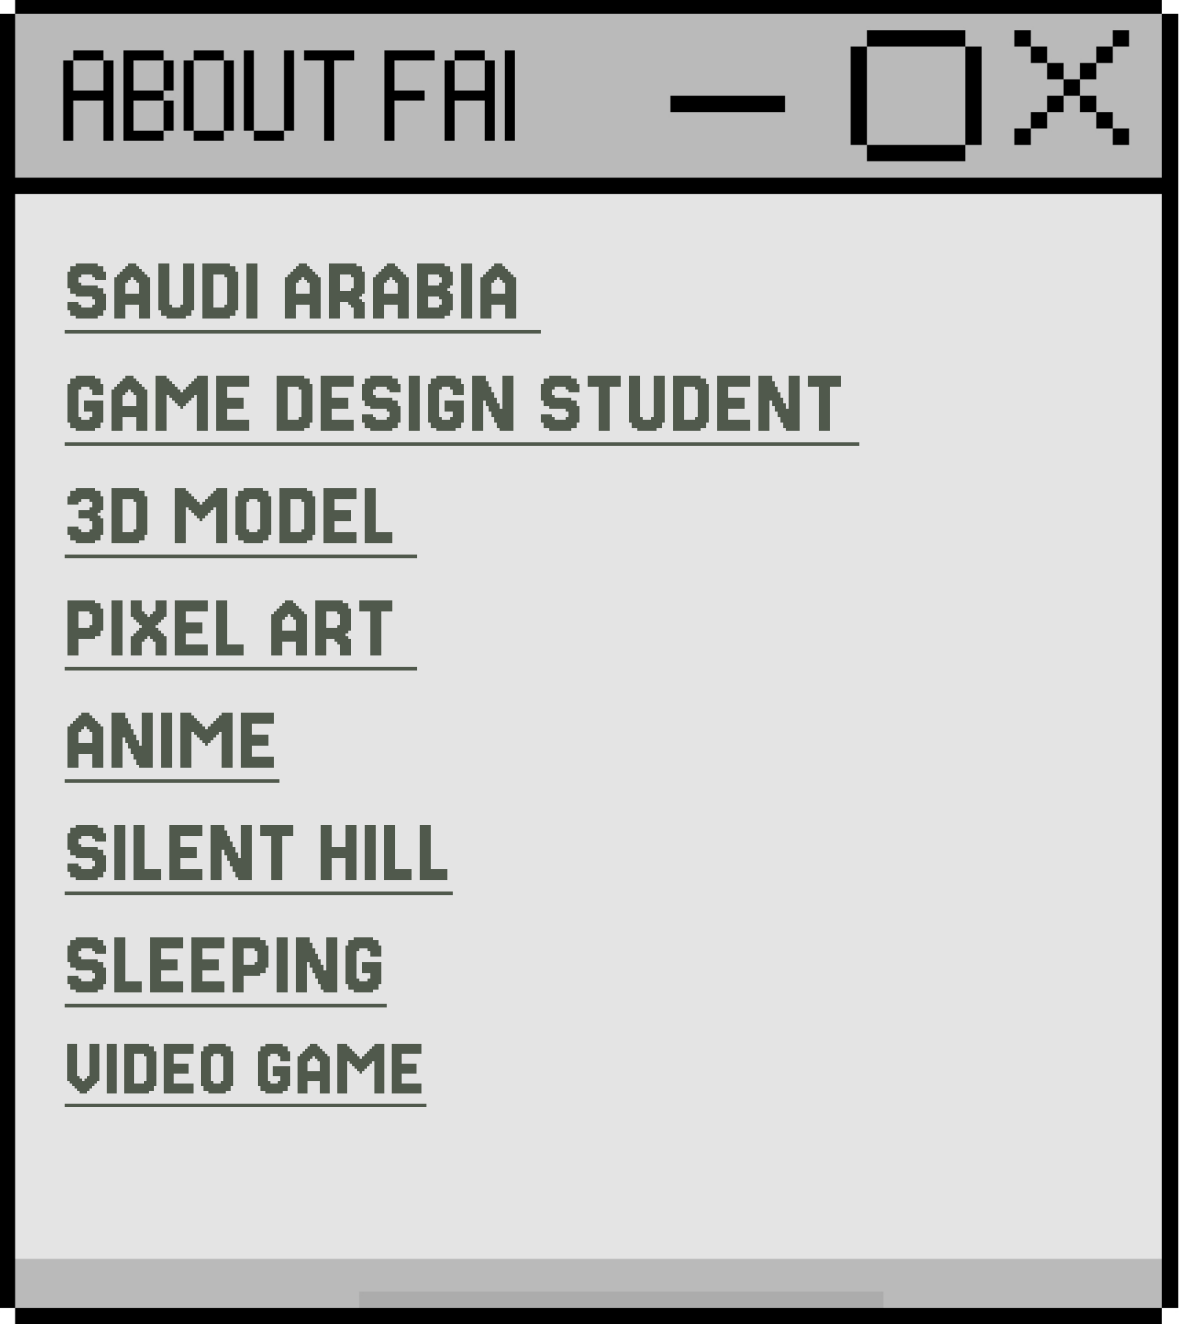
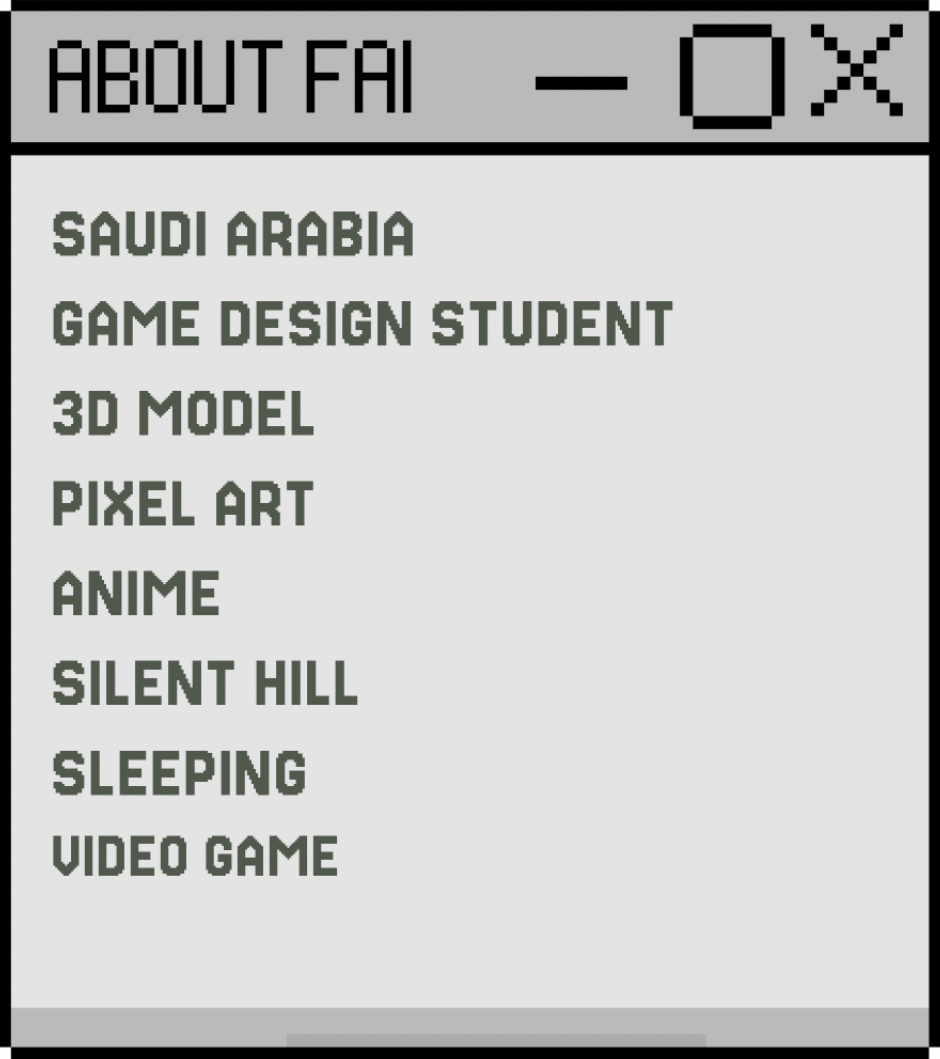
push

diff --git a/styles.css b/styles.css
@@ -1,3 +1,4 @@
+/* الخط */
 * {
   font-family: "Jersey 20", sans-serif;
   font-weight: 400;
@@ -5,21 +6,33 @@
   box-sizing: border-box;
 }
 
+/* خلفية الصفحة */
 body {
-  
   margin: 0;
   padding: 0;
-
   background-image: url("background%20white.png");
-  background-size: cover;  
+  background-size: cover;
+  background-repeat: no-repeat;
+  background-position: center;
 }
 
+/* توحيد حجم الصور (نفس اللي طالع عندك حلو) */
+img {
+  width: 260px;      /* تقدرين تغيّرينه إذا تبغين */
+  height: auto;
+  display: block;
+}
+
+/* القريد الرئيسي */
 .grid-container {
   display: grid;
   width: 1000px;
   grid-template-columns: 260px 1fr;
   margin: 10px auto;
+  align-items: start;
 }
+
+/* صورة الشخصية */
 .item1 {
   display: flex;
   justify-content: center;
@@ -27,68 +40,80 @@ body {
   margin: 100px;
 }
 
-.item1 img {
-  max-height: 500px;
-  display: block;
-}
-
+/* ✅ صندوق اليمين (هذا هو التعديل المهم) */
 .info-box {
   display: grid;
-  grid-template-columns: repeat(2, 1fr);
-  gap: 10px;
+
+  /* بدل 1fr اللي يخليهم يتباعدون */
+  grid-template-columns: repeat(2, 260px);
+
+  gap: 20px;
   margin-top: 80px;
+
+  /* يخليهم يتجمعون ويسار (قريبين) */
+  justify-content: start;
+  align-content: start;
 }
 
+/* about */
 .item2 img {
-  width: 320px;
-  display: block;
+  /* نخليها تورث من img العام */
 }
 
+/* social */
 .item3 {
   position: relative;
 }
 
 .item3 img {
-  width: 210px;
+  /* نخليها تورث من img العام */
 }
 
 .item3 .social-links {
   position: absolute;
   left: 18px;
   top: 55px;
-  display: flex; 
+  display: flex;
   flex-direction: column;
- 
 }
 
 .item3 .social-links a {
   font-size: 25px;
   color: rgb(90, 107, 82);
+  text-decoration: none;
 }
 
+/* assignments */
+.item4 {
+  position: relative;
+}
 
 .assign-wrap {
   position: relative;
 }
 
 .assign-wrap img {
-  width: 280px;       
+  /* نخليها تورث من img العام */
+  pointer-events: none;
 }
 
 .assignment-links {
   position: absolute;
-  left: 18px;          
-  top: 58px;           
+  left: 18px;
+  top: 58px;
   display: flex;
   flex-direction: column;
-  
+  z-index: 10;
 }
 
 .assignment-links a {
-  font-size: 20px; 
+  font-size: 20px;
   color: rgb(78, 89, 75);
+  text-decoration: none;
+  display: inline-block;
 }
 
+/* new assignment */
 .item5 {
   display: flex;
   justify-content: center;
@@ -96,6 +121,19 @@ body {
 }
 
 .item5 img {
-  width: 300px;
-  display: block;
+  /* نخليها تورث من img العام */
+}
+
+/* زر الرجوع */
+.back-home{
+  position: fixed;
+  top: 20px;
+  left: 20px;
+  background: #ffffff;
+  border: 3px solid #000;
+  padding: 10px 14px;
+  text-decoration: none;
+  color: #000;
+  font-size: 18px;
+  z-index: 9999;
 }

diff --git a/index.html b/index.html
@@ -13,6 +13,7 @@
 </head>
 
 <body>
+
   <div class="grid-container">
 
     <div class="item1">
@@ -35,28 +36,27 @@
       </div>
 
       <div class="item4">
-  <div class="assign-wrap">
-    <img src="fallassignments.png" alt="fallassignments" />
+        <div class="assign-wrap">
+          <img src="fallassignments.png" alt="fall assignments" />
 
-    <div class="assignment-links">
-      <a href="project.html" target="_blank">Lost and Found</a>
-      <a href="project2.html" target="_blank">Face-Generator</a>
-      <a href="project3.html" target="_blank"> EXPERIMENTAL CLOCK</a>
-      <a href="project4.html" target="_blank"> Optical Illusion</a>
-      <a href="project5.html" target="_blank"> DATA Portrait</a>
-      <a href="project6.html" target="_blank"> Autobiographical Game</a>
+          <div class="assignment-links">
 
+            <a href="project.html">Lost and Found</a>
+            <a href="project2.html">Face Generator</a>
+            <a href="project3.html">Experimental Clock</a>
+            <a href="project4.html">Optical Illusion</a>
+            <a href="project5.html">Data Portrait</a>
+            <a href="project6.html">Autobiographical Game</a>
+          </div>
+        </div>
+      </div>
+
+      <div class="item5">
+        <img src="newassignment.png" alt="New assignment" />
+      </div>
 
     </div>
   </div>
-</div>
 
-
-      <div class="item5">
-        <img src="newassignment.png" alt="newassignment" />
-      </div>
-
-    </div> 
-  </div>
 </body>
 </html>

diff --git a/project4.html b/project4.html
@@ -33,7 +33,6 @@
         </div>
       </div>
 
-
       <div class="frame frame-about">
         <div class="frame-inner">
           <h2 class="about-title">ABOUT THE<br>PROJECT</h2>
@@ -49,6 +48,7 @@
       </div>
 
     </div>
+<a class="back-home" href="index.html">← Back to Home</a>
 
   </div>
 </body>

diff --git a/project6.html b/project6.html
@@ -48,6 +48,7 @@ The gameplay focuses on collecting healthy food while avoiding junk food, repres
       </div>
 
     </div>
+<a class="back-home" href="index.html">← Back to Home</a>
 
   </div>
 </body>

diff --git a/project2.html b/project2.html
@@ -42,6 +42,7 @@
           </p>
         </div>
       </div>
+<a class="back-home" href="index.html">← Back to Home</a>
 
     </div>
   </div>

diff --git a/project5.html b/project5.html
@@ -48,6 +48,7 @@
           </p>
         </div>
       </div>
+<a class="back-home" href="index.html">← Back to Home</a>
 
     </div>
 

diff --git a/project3.html b/project3.html
@@ -47,6 +47,7 @@
       </div>
 
     </div>
+<a class="back-home" href="index.html">← Back to Home</a>
 
   </div>
 </body>

diff --git a/project.html b/project.html
@@ -51,6 +51,7 @@
       </div>
 
     </div>
+<a class="back-home" href="index.html">← Back to Home</a>
 
   </div>
 
